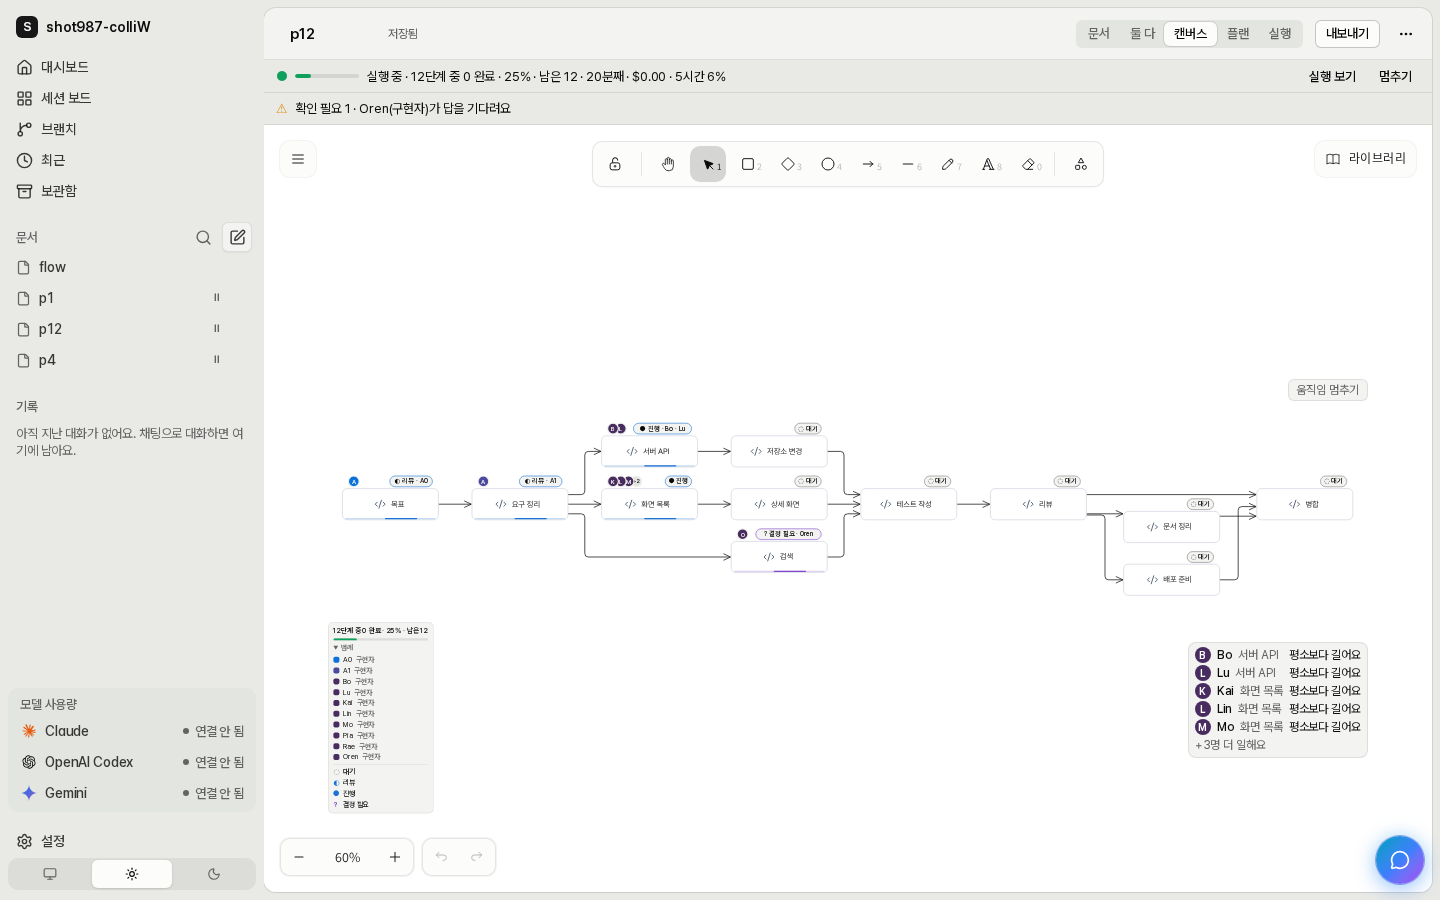
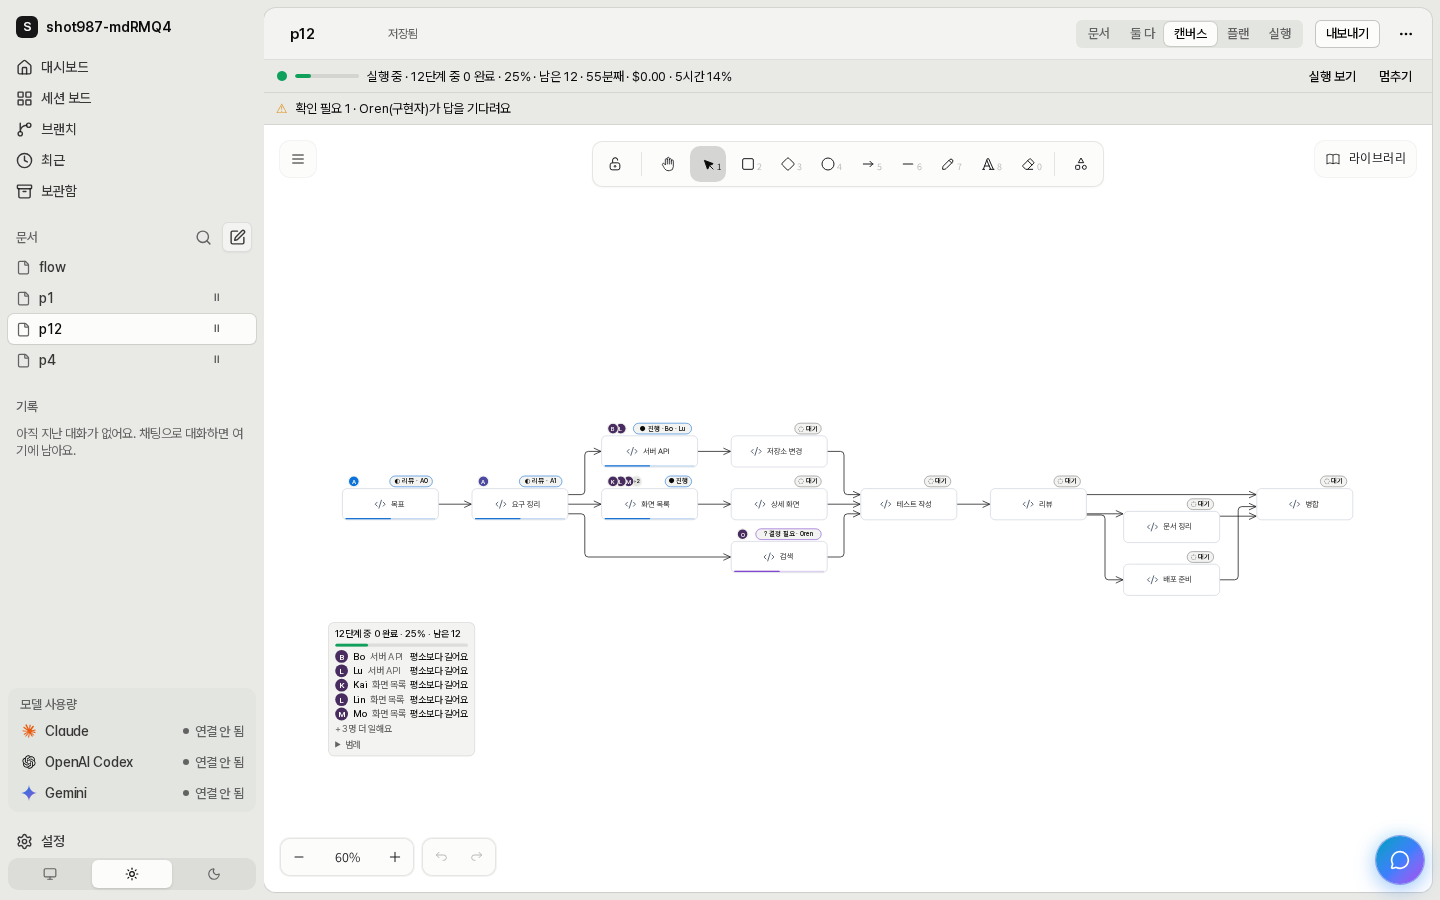
docs(issues): refresh the #987 summary and after screenshots

diff --git a/Issues/987.md b/Issues/987.md
@@ -2,8 +2,8 @@
 
 - 실행 표시(아바타·상태 칩)를 노드 위 바깥 띠(24px)에 그려요. 계획 블록에만 `runMarks on`을 붙이고, 레이아웃이 세로 간격과 위 여백을 띠 높이만큼 늘려요.
 - 아바타가 3개를 넘으면 3개 + `+N`으로 줄여요.
-- 캔버스 맞춤 확대는 60% 아래로 내려가지 않아요(가운데 정렬, 나머지는 스크롤). 문서 블록은 100%를 넘지 않아요.
-- 캔버스 범례는 다이어그램과 같은 배율로 줄어요(60~100%).
+- 캔버스 맞춤 확대와 문서 블록 모두 60~100% 배율이에요. 문서에서 블록보다 넓으면 블록 안에서 가로 스크롤해요.
+- 진행 범례 카드는 항상 다이어그램 아래에 둬요(캔버스는 남은 시간 줄 포함, 80~100%, 7명부터 범례 접힘).
 - 전후 스크린샷(1배율, 노드 1·4·12개 계획과 flowchart): `Issues/987/`
 - PR: #992
 - 확인: run-overlay·canvas-plan-style·canvas-initial-view·render 테스트, typecheck, `npm run build`
